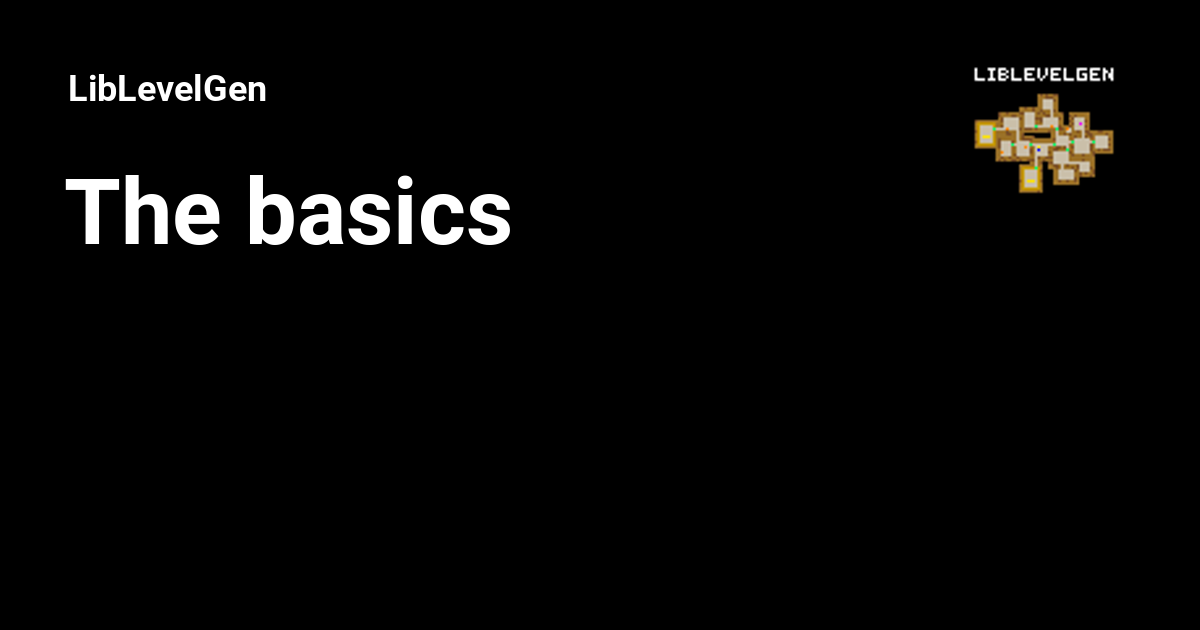
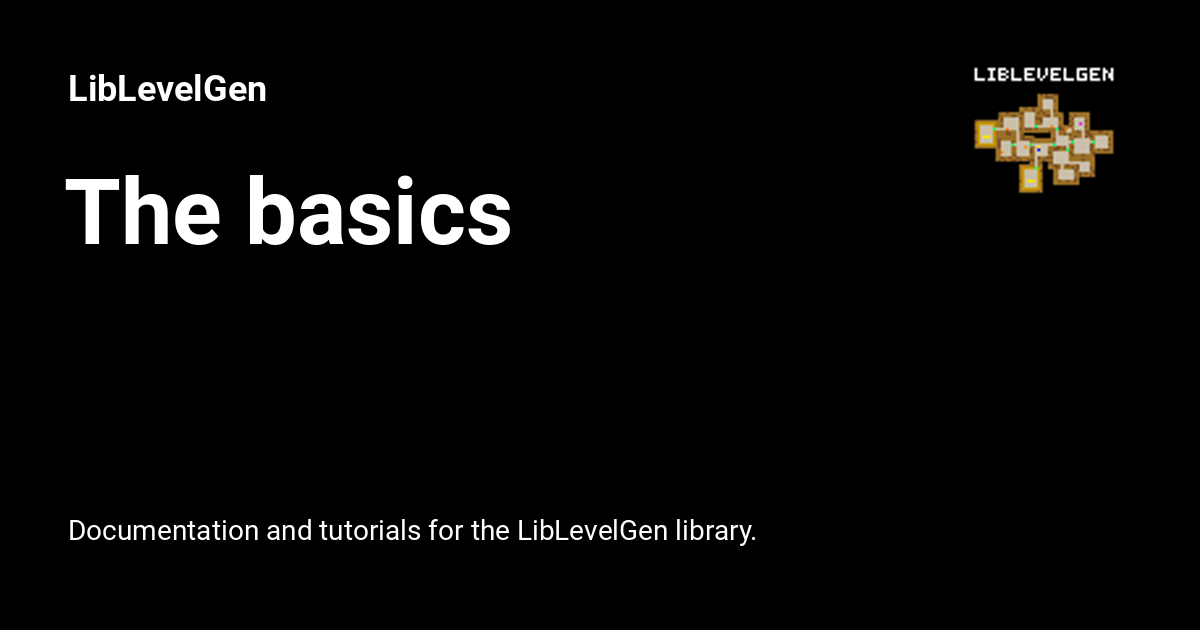
Change site_description

Changed region(s): [[0.0617, 0.8143, 0.6475, 0.8746]]

diff --git a/getting-started/04-room-types/index.html b/getting-started/04-room-types/index.html
@@ -6,6 +6,8 @@
       <meta charset="utf-8">
       <meta name="viewport" content="width=device-width,initial-scale=1">
       
+        <meta name="description" content="Documentation and tutorials for the LibLevelGen library.">
+      
       
       
         <link rel="canonical" href="https://priw8.github.io/liblevelgen-doc/getting-started/04-room-types/">
@@ -56,7 +58,7 @@
       
         <meta  property="og:title"  content="Placing things in rooms - LibLevelGen" >
       
-        <meta  property="og:description"  content="None" >
+        <meta  property="og:description"  content="Documentation and tutorials for the LibLevelGen library." >
       
         <meta  property="og:image"  content="https://priw8.github.io/liblevelgen-doc/assets/images/social/getting-started/04-room-types.png" >
       
@@ -72,7 +74,7 @@
       
         <meta  name="twitter:title"  content="Placing things in rooms - LibLevelGen" >
       
-        <meta  name="twitter:description"  content="None" >
+        <meta  name="twitter:description"  content="Documentation and tutorials for the LibLevelGen library." >
       
         <meta  name="twitter:image"  content="https://priw8.github.io/liblevelgen-doc/assets/images/social/getting-started/04-room-types.png" >
       

diff --git a/getting-started/03-more-rooms/index.html b/getting-started/03-more-rooms/index.html
@@ -6,6 +6,8 @@
       <meta charset="utf-8">
       <meta name="viewport" content="width=device-width,initial-scale=1">
       
+        <meta name="description" content="Documentation and tutorials for the LibLevelGen library.">
+      
       
       
         <link rel="canonical" href="https://priw8.github.io/liblevelgen-doc/getting-started/03-more-rooms/">
@@ -56,7 +58,7 @@
       
         <meta  property="og:title"  content="Creating more rooms - LibLevelGen" >
       
-        <meta  property="og:description"  content="None" >
+        <meta  property="og:description"  content="Documentation and tutorials for the LibLevelGen library." >
       
         <meta  property="og:image"  content="https://priw8.github.io/liblevelgen-doc/assets/images/social/getting-started/03-more-rooms.png" >
       
@@ -72,7 +74,7 @@
       
         <meta  name="twitter:title"  content="Creating more rooms - LibLevelGen" >
       
-        <meta  name="twitter:description"  content="None" >
+        <meta  name="twitter:description"  content="Documentation and tutorials for the LibLevelGen library." >
       
         <meta  name="twitter:image"  content="https://priw8.github.io/liblevelgen-doc/assets/images/social/getting-started/03-more-rooms.png" >
       

diff --git a/getting-started/01-introduction/index.html b/getting-started/01-introduction/index.html
@@ -6,6 +6,8 @@
       <meta charset="utf-8">
       <meta name="viewport" content="width=device-width,initial-scale=1">
       
+        <meta name="description" content="Documentation and tutorials for the LibLevelGen library.">
+      
       
       
         <link rel="canonical" href="https://priw8.github.io/liblevelgen-doc/getting-started/01-introduction/">
@@ -56,7 +58,7 @@
       
         <meta  property="og:title"  content="Introduction - LibLevelGen" >
       
-        <meta  property="og:description"  content="None" >
+        <meta  property="og:description"  content="Documentation and tutorials for the LibLevelGen library." >
       
         <meta  property="og:image"  content="https://priw8.github.io/liblevelgen-doc/assets/images/social/getting-started/01-introduction.png" >
       
@@ -72,7 +74,7 @@
       
         <meta  name="twitter:title"  content="Introduction - LibLevelGen" >
       
-        <meta  name="twitter:description"  content="None" >
+        <meta  name="twitter:description"  content="Documentation and tutorials for the LibLevelGen library." >
       
         <meta  name="twitter:image"  content="https://priw8.github.io/liblevelgen-doc/assets/images/social/getting-started/01-introduction.png" >
       

diff --git a/modules/LibLevelGen.lua/index.html b/modules/LibLevelGen.lua/index.html
@@ -6,6 +6,8 @@
       <meta charset="utf-8">
       <meta name="viewport" content="width=device-width,initial-scale=1">
       
+        <meta name="description" content="Documentation and tutorials for the LibLevelGen library.">
+      
       
       
         <link rel="canonical" href="https://priw8.github.io/liblevelgen-doc/modules/LibLevelGen.lua/">
@@ -56,7 +58,7 @@
       
         <meta  property="og:title"  content="LibLevelGen.lua - LibLevelGen" >
       
-        <meta  property="og:description"  content="None" >
+        <meta  property="og:description"  content="Documentation and tutorials for the LibLevelGen library." >
       
         <meta  property="og:image"  content="https://priw8.github.io/liblevelgen-doc/assets/images/social/modules/LibLevelGen.lua.png" >
       
@@ -72,7 +74,7 @@
       
         <meta  name="twitter:title"  content="LibLevelGen.lua - LibLevelGen" >
       
-        <meta  name="twitter:description"  content="None" >
+        <meta  name="twitter:description"  content="Documentation and tutorials for the LibLevelGen library." >
       
         <meta  name="twitter:image"  content="https://priw8.github.io/liblevelgen-doc/assets/images/social/modules/LibLevelGen.lua.png" >
       

diff --git a/getting-started/02-basics/index.html b/getting-started/02-basics/index.html
@@ -6,6 +6,8 @@
       <meta charset="utf-8">
       <meta name="viewport" content="width=device-width,initial-scale=1">
       
+        <meta name="description" content="Documentation and tutorials for the LibLevelGen library.">
+      
       
       
         <link rel="canonical" href="https://priw8.github.io/liblevelgen-doc/getting-started/02-basics/">
@@ -56,7 +58,7 @@
       
         <meta  property="og:title"  content="The basics - LibLevelGen" >
       
-        <meta  property="og:description"  content="None" >
+        <meta  property="og:description"  content="Documentation and tutorials for the LibLevelGen library." >
       
         <meta  property="og:image"  content="https://priw8.github.io/liblevelgen-doc/assets/images/social/getting-started/02-basics.png" >
       
@@ -72,7 +74,7 @@
       
         <meta  name="twitter:title"  content="The basics - LibLevelGen" >
       
-        <meta  name="twitter:description"  content="None" >
+        <meta  name="twitter:description"  content="Documentation and tutorials for the LibLevelGen library." >
       
         <meta  name="twitter:image"  content="https://priw8.github.io/liblevelgen-doc/assets/images/social/getting-started/02-basics.png" >
       

diff --git a/modules/ErrorLevel.lua/index.html b/modules/ErrorLevel.lua/index.html
@@ -6,6 +6,8 @@
       <meta charset="utf-8">
       <meta name="viewport" content="width=device-width,initial-scale=1">
       
+        <meta name="description" content="Documentation and tutorials for the LibLevelGen library.">
+      
       
       
         <link rel="canonical" href="https://priw8.github.io/liblevelgen-doc/modules/ErrorLevel.lua/">
@@ -56,7 +58,7 @@
       
         <meta  property="og:title"  content="ErrorLevel.lua - LibLevelGen" >
       
-        <meta  property="og:description"  content="None" >
+        <meta  property="og:description"  content="Documentation and tutorials for the LibLevelGen library." >
       
         <meta  property="og:image"  content="https://priw8.github.io/liblevelgen-doc/assets/images/social/modules/ErrorLevel.lua.png" >
       
@@ -72,7 +74,7 @@
       
         <meta  name="twitter:title"  content="ErrorLevel.lua - LibLevelGen" >
       
-        <meta  name="twitter:description"  content="None" >
+        <meta  name="twitter:description"  content="Documentation and tutorials for the LibLevelGen library." >
       
         <meta  name="twitter:image"  content="https://priw8.github.io/liblevelgen-doc/assets/images/social/modules/ErrorLevel.lua.png" >
       

diff --git a/modules/SecretRoom.lua/index.html b/modules/SecretRoom.lua/index.html
@@ -6,6 +6,8 @@
       <meta charset="utf-8">
       <meta name="viewport" content="width=device-width,initial-scale=1">
       
+        <meta name="description" content="Documentation and tutorials for the LibLevelGen library.">
+      
       
       
         <link rel="canonical" href="https://priw8.github.io/liblevelgen-doc/modules/SecretRoom.lua/">
@@ -56,7 +58,7 @@
       
         <meta  property="og:title"  content="SecretRoom.lua - LibLevelGen" >
       
-        <meta  property="og:description"  content="None" >
+        <meta  property="og:description"  content="Documentation and tutorials for the LibLevelGen library." >
       
         <meta  property="og:image"  content="https://priw8.github.io/liblevelgen-doc/assets/images/social/modules/SecretRoom.lua.png" >
       
@@ -72,7 +74,7 @@
       
         <meta  name="twitter:title"  content="SecretRoom.lua - LibLevelGen" >
       
-        <meta  name="twitter:description"  content="None" >
+        <meta  name="twitter:description"  content="Documentation and tutorials for the LibLevelGen library." >
       
         <meta  name="twitter:image"  content="https://priw8.github.io/liblevelgen-doc/assets/images/social/modules/SecretRoom.lua.png" >
       

diff --git a/modules/SecretShop.lua/index.html b/modules/SecretShop.lua/index.html
@@ -6,6 +6,8 @@
       <meta charset="utf-8">
       <meta name="viewport" content="width=device-width,initial-scale=1">
       
+        <meta name="description" content="Documentation and tutorials for the LibLevelGen library.">
+      
       
       
         <link rel="canonical" href="https://priw8.github.io/liblevelgen-doc/modules/SecretShop.lua/">
@@ -56,7 +58,7 @@
       
         <meta  property="og:title"  content="SecretShop.lua - LibLevelGen" >
       
-        <meta  property="og:description"  content="None" >
+        <meta  property="og:description"  content="Documentation and tutorials for the LibLevelGen library." >
       
         <meta  property="og:image"  content="https://priw8.github.io/liblevelgen-doc/assets/images/social/modules/SecretShop.lua.png" >
       
@@ -72,7 +74,7 @@
       
         <meta  name="twitter:title"  content="SecretShop.lua - LibLevelGen" >
       
-        <meta  name="twitter:description"  content="None" >
+        <meta  name="twitter:description"  content="Documentation and tutorials for the LibLevelGen library." >
       
         <meta  name="twitter:image"  content="https://priw8.github.io/liblevelgen-doc/assets/images/social/modules/SecretShop.lua.png" >
       

diff --git a/modules/Settings.lua/index.html b/modules/Settings.lua/index.html
@@ -6,6 +6,8 @@
       <meta charset="utf-8">
       <meta name="viewport" content="width=device-width,initial-scale=1">
       
+        <meta name="description" content="Documentation and tutorials for the LibLevelGen library.">
+      
       
       
         <link rel="canonical" href="https://priw8.github.io/liblevelgen-doc/modules/Settings.lua/">
@@ -56,7 +58,7 @@
       
         <meta  property="og:title"  content="Settings.lua - LibLevelGen" >
       
-        <meta  property="og:description"  content="None" >
+        <meta  property="og:description"  content="Documentation and tutorials for the LibLevelGen library." >
       
         <meta  property="og:image"  content="https://priw8.github.io/liblevelgen-doc/assets/images/social/modules/Settings.lua.png" >
       
@@ -72,7 +74,7 @@
       
         <meta  name="twitter:title"  content="Settings.lua - LibLevelGen" >
       
-        <meta  name="twitter:description"  content="None" >
+        <meta  name="twitter:description"  content="Documentation and tutorials for the LibLevelGen library." >
       
         <meta  name="twitter:image"  content="https://priw8.github.io/liblevelgen-doc/assets/images/social/modules/Settings.lua.png" >
       

diff --git a/modules/Segment.lua/index.html b/modules/Segment.lua/index.html
@@ -6,6 +6,8 @@
       <meta charset="utf-8">
       <meta name="viewport" content="width=device-width,initial-scale=1">
       
+        <meta name="description" content="Documentation and tutorials for the LibLevelGen library.">
+      
       
       
         <link rel="canonical" href="https://priw8.github.io/liblevelgen-doc/modules/Segment.lua/">
@@ -56,7 +58,7 @@
       
         <meta  property="og:title"  content="Segment.lua - LibLevelGen" >
       
-        <meta  property="og:description"  content="None" >
+        <meta  property="og:description"  content="Documentation and tutorials for the LibLevelGen library." >
       
         <meta  property="og:image"  content="https://priw8.github.io/liblevelgen-doc/assets/images/social/modules/Segment.lua.png" >
       
@@ -72,7 +74,7 @@
       
         <meta  name="twitter:title"  content="Segment.lua - LibLevelGen" >
       
-        <meta  name="twitter:description"  content="None" >
+        <meta  name="twitter:description"  content="Documentation and tutorials for the LibLevelGen library." >
       
         <meta  name="twitter:image"  content="https://priw8.github.io/liblevelgen-doc/assets/images/social/modules/Segment.lua.png" >
       

diff --git a/modules/Entity.lua/index.html b/modules/Entity.lua/index.html
@@ -6,6 +6,8 @@
       <meta charset="utf-8">
       <meta name="viewport" content="width=device-width,initial-scale=1">
       
+        <meta name="description" content="Documentation and tutorials for the LibLevelGen library.">
+      
       
       
         <link rel="canonical" href="https://priw8.github.io/liblevelgen-doc/modules/Entity.lua/">
@@ -56,7 +58,7 @@
       
         <meta  property="og:title"  content="Entity.lua - LibLevelGen" >
       
-        <meta  property="og:description"  content="None" >
+        <meta  property="og:description"  content="Documentation and tutorials for the LibLevelGen library." >
       
         <meta  property="og:image"  content="https://priw8.github.io/liblevelgen-doc/assets/images/social/modules/Entity.lua.png" >
       
@@ -72,7 +74,7 @@
       
         <meta  name="twitter:title"  content="Entity.lua - LibLevelGen" >
       
-        <meta  name="twitter:description"  content="None" >
+        <meta  name="twitter:description"  content="Documentation and tutorials for the LibLevelGen library." >
       
         <meta  name="twitter:image"  content="https://priw8.github.io/liblevelgen-doc/assets/images/social/modules/Entity.lua.png" >
       

diff --git a/modules/Shrine.lua/index.html b/modules/Shrine.lua/index.html
@@ -6,6 +6,8 @@
       <meta charset="utf-8">
       <meta name="viewport" content="width=device-width,initial-scale=1">
       
+        <meta name="description" content="Documentation and tutorials for the LibLevelGen library.">
+      
       
       
         <link rel="canonical" href="https://priw8.github.io/liblevelgen-doc/modules/Shrine.lua/">
@@ -56,7 +58,7 @@
       
         <meta  property="og:title"  content="Shrine.lua - LibLevelGen" >
       
-        <meta  property="og:description"  content="None" >
+        <meta  property="og:description"  content="Documentation and tutorials for the LibLevelGen library." >
       
         <meta  property="og:image"  content="https://priw8.github.io/liblevelgen-doc/assets/images/social/modules/Shrine.lua.png" >
       
@@ -72,7 +74,7 @@
       
         <meta  name="twitter:title"  content="Shrine.lua - LibLevelGen" >
       
-        <meta  name="twitter:description"  content="None" >
+        <meta  name="twitter:description"  content="Documentation and tutorials for the LibLevelGen library." >
       
         <meta  name="twitter:image"  content="https://priw8.github.io/liblevelgen-doc/assets/images/social/modules/Shrine.lua.png" >
       
